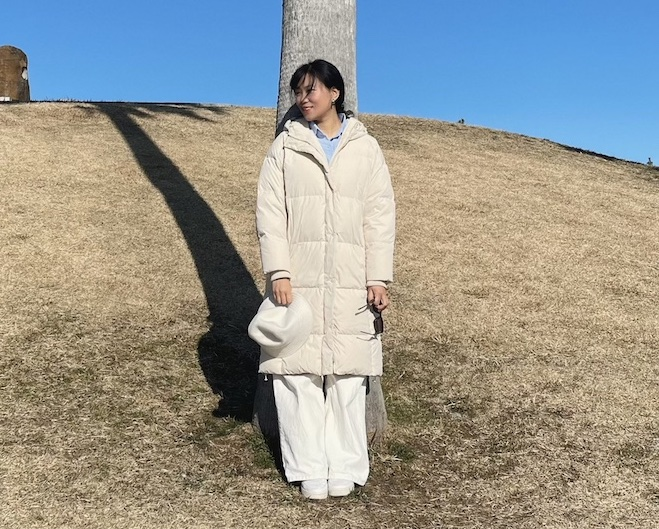
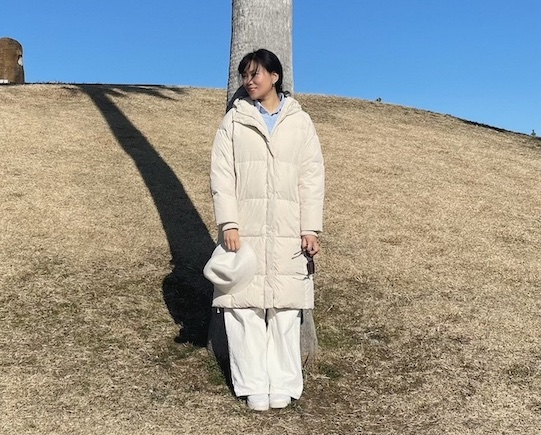
week1a

diff --git a/index.html b/index.html
@@ -1,14 +1,18 @@
 <!DOCTYPE html>
 <html lang="en">
-<head
+<head>
     <meta charset="UTF-8">
     <meta name="viewport" content="width=device-width, initial-scale=1.0">
-    <title>WDD 131 Dynamic web fundamentals-Reeta Pun</title>
+    <title>WDD 131 - Dynamic web fundamentals-Reeta Pun</title>
 
     <meta name="description" content="WDD 131- Dynamic web fundamentals. Reeta Pun's
     course landing page about web development, Japan, Nepal, and learning Software Development.">
 
     <meta name="author" content="Reeta Pun">
+
+    <link rel="preconnect" href="https://fonts.googleapis.com">
+    <link rel="preconnect" href="https://fonts.gstatic.com" crossorigin>
+    <link href="https://fonts.googleapis.com/css2?family=Montserrat:wght@400;600;700&family=Roboto:wght@400;500&display=swap" rel="stylesheet">
 
     <link rel="stylesheet" href="styles/base.css">
 
@@ -17,7 +21,7 @@
 <body>
 
     <header>
-        <span id="course">WDD 131 - Dynamic Web Fundamentals</span>
+        <span id="course-title">WDD 131 - Dynamic Web Fundamentals</span>
 
         <nav>
             <a href="https://www.linkedin.com/" target="_blank">LinkedIn</a>
@@ -99,7 +103,7 @@ freeCodeCamp
 
     <footer>
         <p>
-            &copy;<span id="currentyear"></span> Reeta Pun. Japan
+            &copy; <span id="currentyear"></span> Reeta Pun.Japan
 
         </p>
         <p id="lastModified"></p>

diff --git a/styles/base.css b/styles/base.css
@@ -1,4 +1,3 @@
-@import url('https://fonts.googleapis.com/css2?family=Montserrat:wght@400;600;700&family=Roboto:wght@400;500&display=swap');
 
 :root {
     --primary-color: #24577a;
